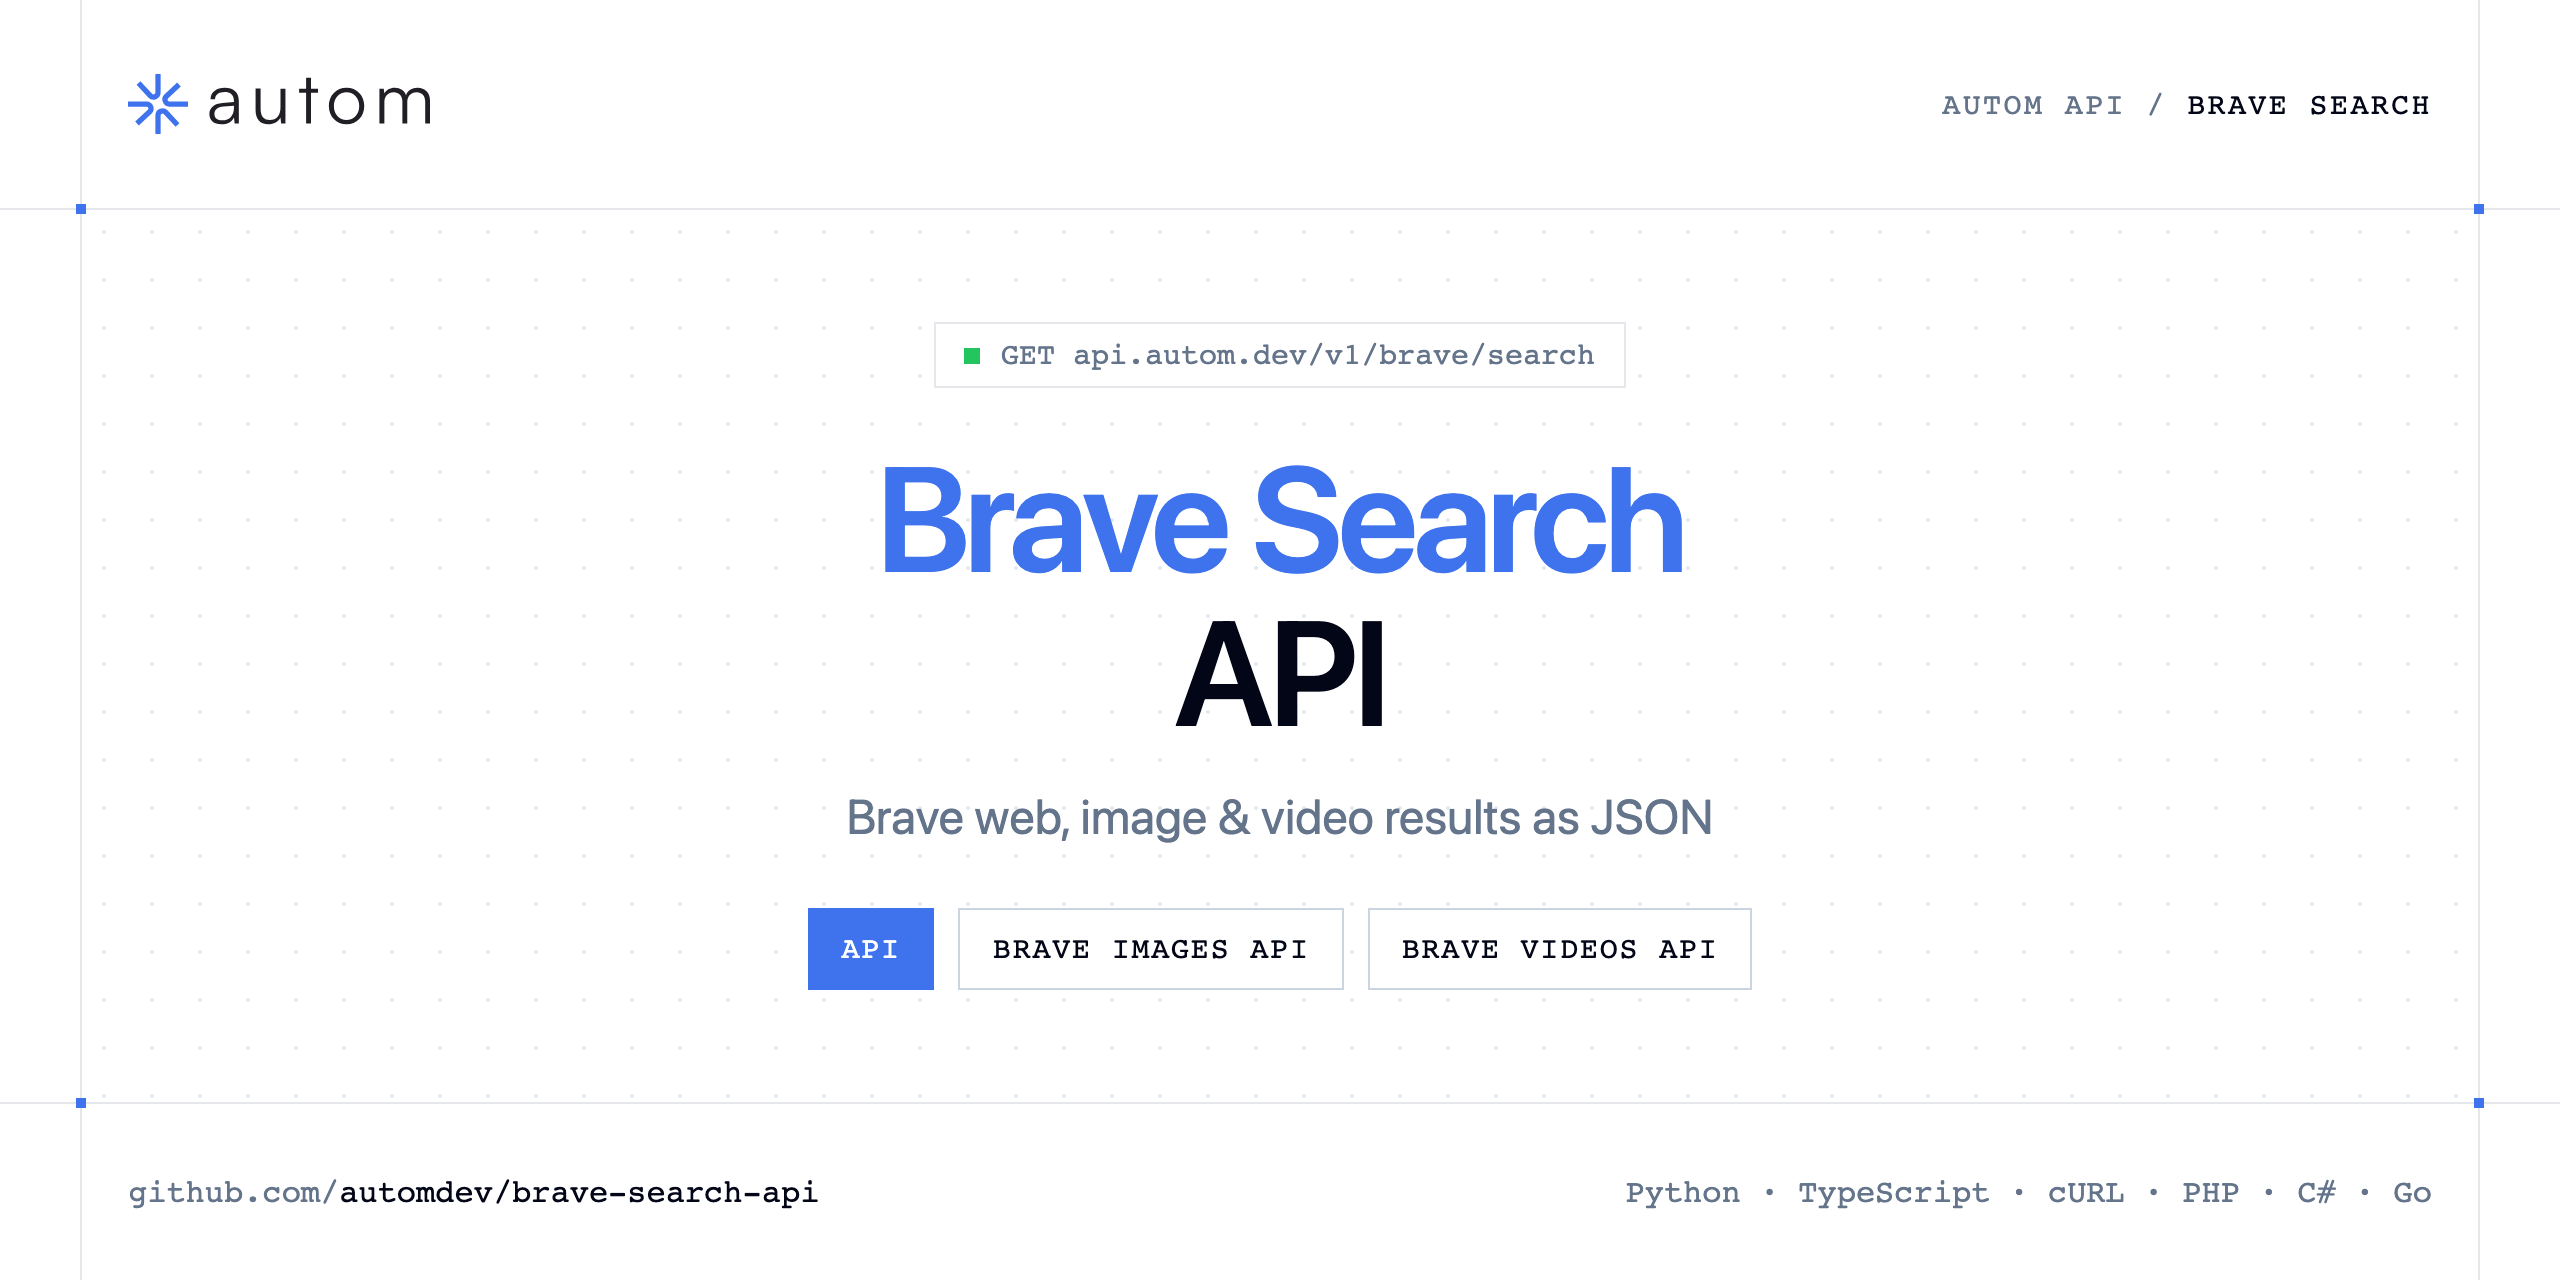
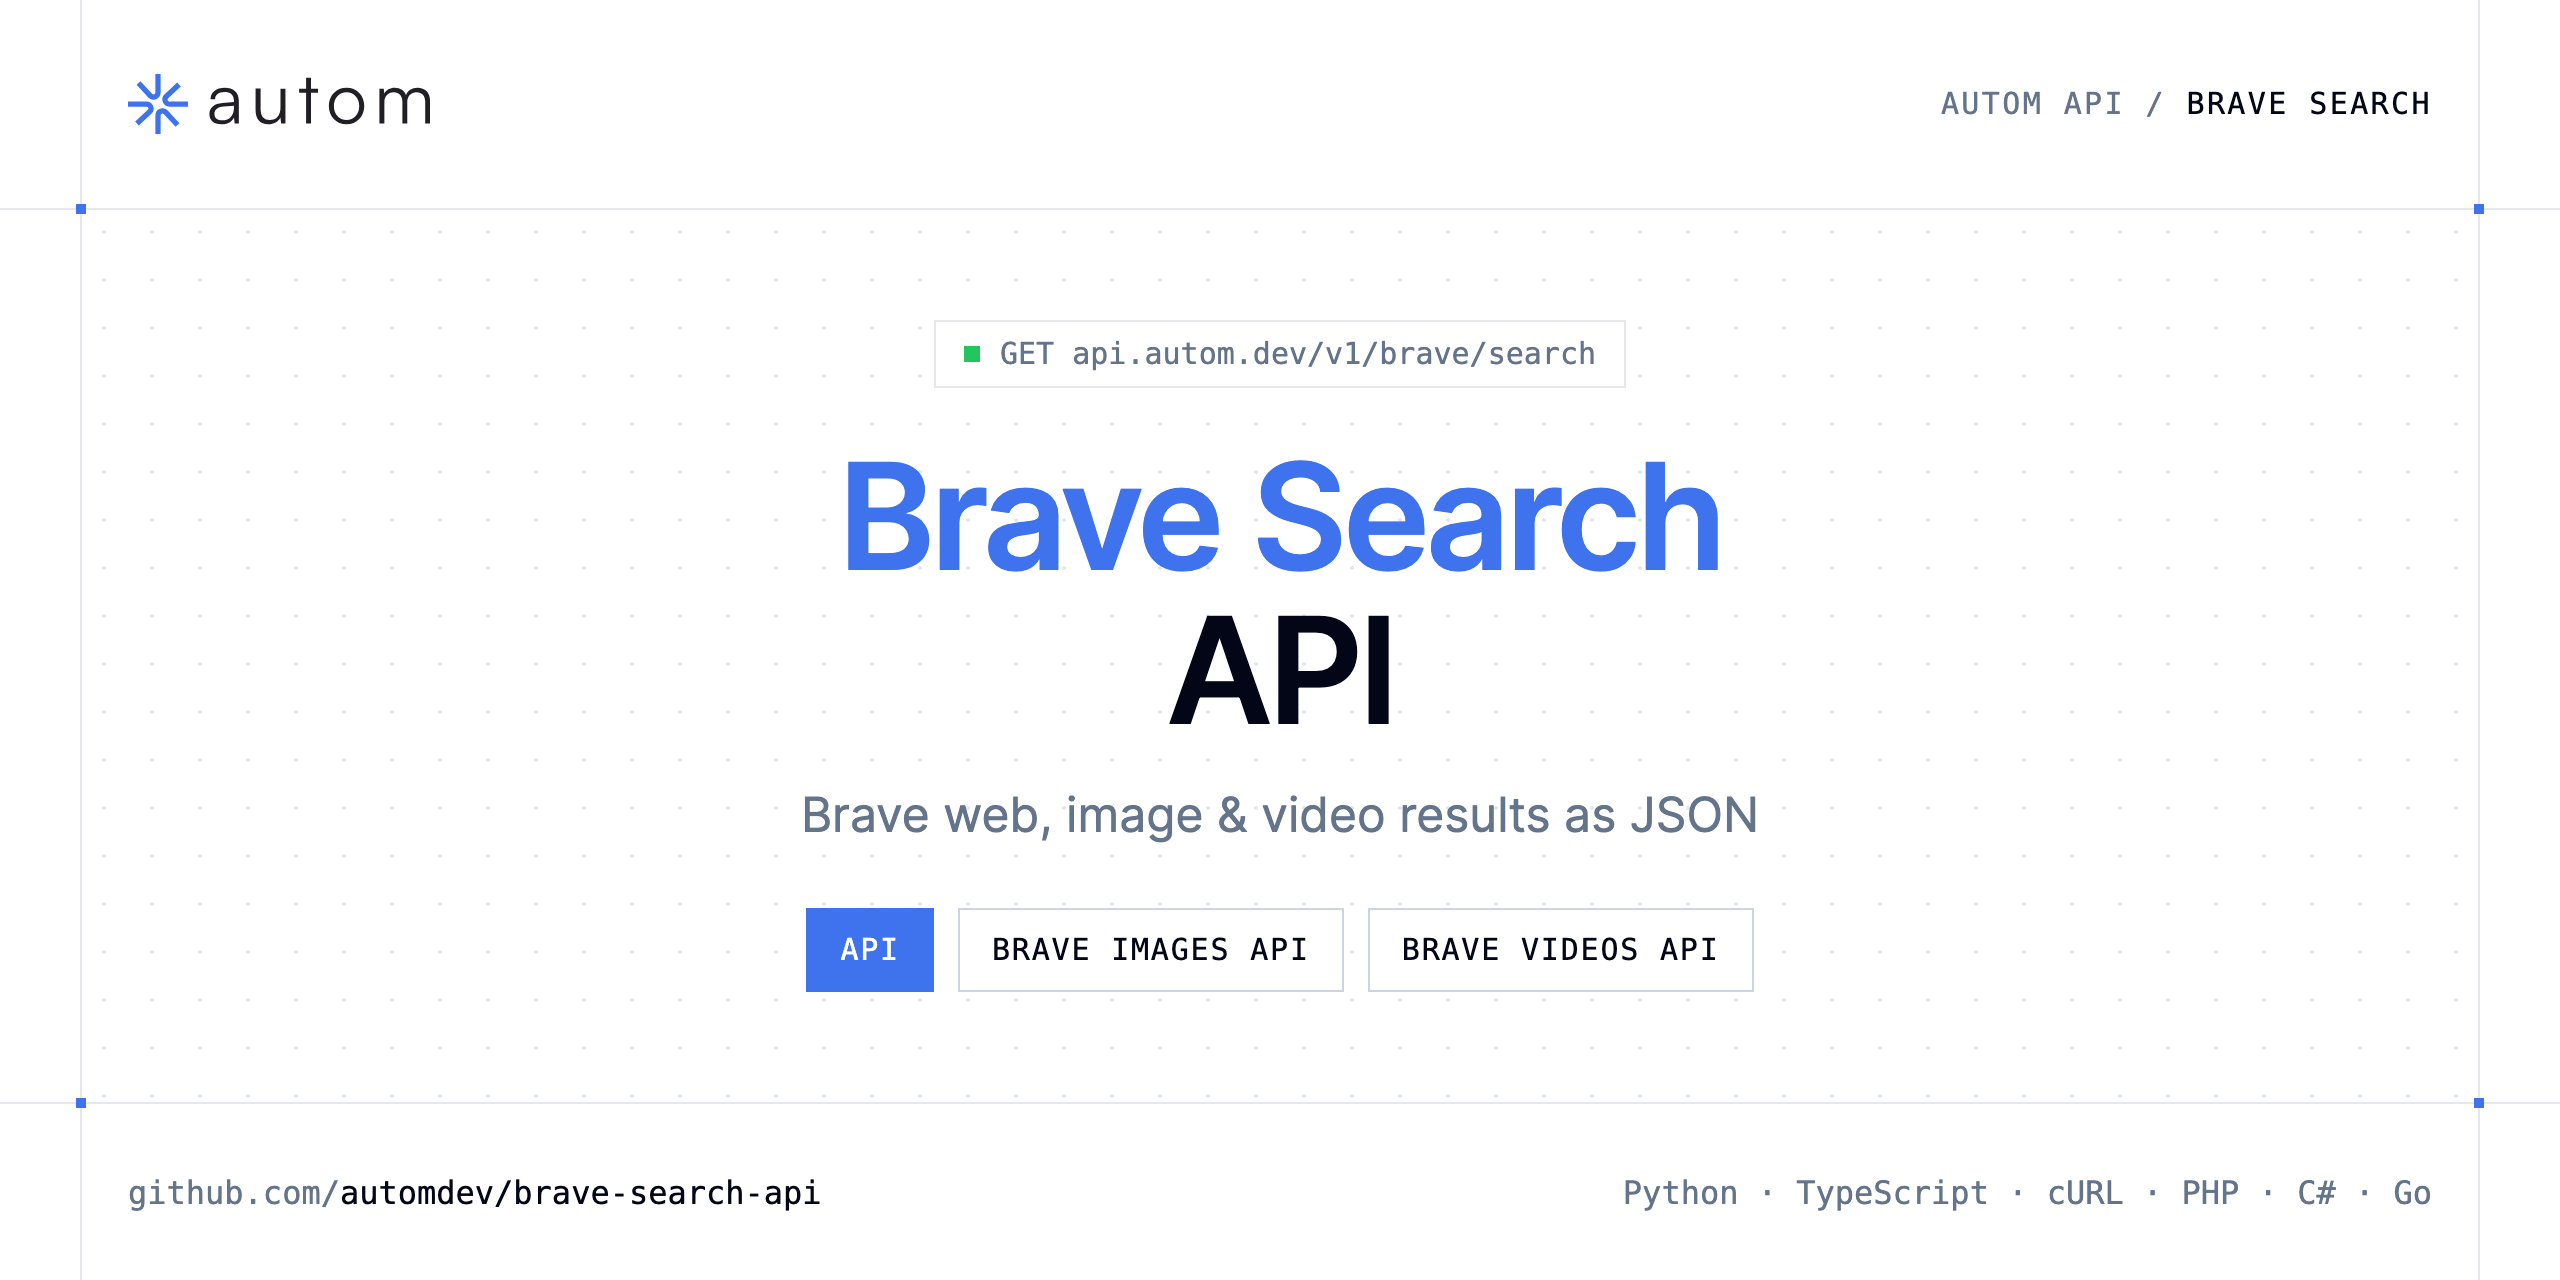
Update Brave Search API examples and docs

diff --git a/README.md b/README.md
@@ -8,7 +8,7 @@
 
 The **Autom Brave Search API** returns Brave web, image and video results as structured JSON.
 
-- **Brave Search API** — Search Brave Search via API and retrieve structured organic results with pagination, SafeSearch, and locale.
+- **Brave Search API** — Search Brave Search via API and retrieve structured organic results with pagination.
 - **Brave Images API** — Search Brave Images via API and retrieve structured image results with pagination and SafeSearch.
 - **Brave Videos API** — Search Brave Videos via API and retrieve structured video results with pagination and SafeSearch.
 
@@ -47,7 +47,7 @@ pip install requests        # Python
 
 ## Brave Search API
 
-Search Brave Search via API and retrieve structured organic results with pagination, SafeSearch, and locale.
+Search Brave Search via API and retrieve structured organic results with pagination.
 
 `GET https://api.autom.dev/v1/brave/search` · **1 credit per request** · [API reference](https://app.autom.dev/openapi)
 
@@ -57,9 +57,8 @@ Search Brave Search via API and retrieve structured organic results with paginat
 |---|---|---|---|---|
 | `query` | query | string | ✅ | The search query you want to run on Brave Search. |
 | `page` | query | number | — | Page number for pagination. |
-| `gl` | query | string | — | Country code (e.g. fr, us). Mapped to Brave country. |
-| `hl` | query | string | — | Language code (e.g. fr, en). Mapped to Brave lang. |
-| `safe` | query | string | — | SafeSearch: active \| off \| moderate \| strict. Google-style active maps to Brave strict. |
+| `gl` | query | string | — | Country code, for example us, fr, gb, de. |
+| `hl` | query | string | — | Language code, for example en, fr, de. |
 
 ### Python example
 
@@ -101,9 +100,7 @@ type BraveSearchApi = {
     gl?: string;
     hl?: string;
     page?: number;
-    safe?: string;
     engine?: string;
-    safesearch?: string;
   };
 };
 
@@ -128,21 +125,26 @@ Example response from the API reference, abridged.
 {
   "organic_results": [
     {
-      "link": "https://www.crunchbase.com/organization/growhack",
-      "title": "GrowHack - Crunchbase Company Profile & Funding",
-      "domain": "www.crunchbase.com",
-      "snippet": "GrowHack is the leading lean marketing resource for startups.",
+      "link": "https://www.anthropic.com/",
+      "title": "Anthropic",
+      "domain": "www.anthropic.com",
+      "snippet": "Anthropic is an AI safety company. Claude is its assistant.",
       "position": 1
+    },
+    {
+      "link": "https://docs.anthropic.com/",
+      "title": "Anthropic documentation",
+      "domain": "docs.anthropic.com",
+      "snippet": "Documentation for the Claude API and the Anthropic platform.",
+      "position": 2
     }
   ],
   "search_parameters": {
-    "q": "growth hacking",
+    "q": "anthropic",
     "gl": "us",
     "hl": "en",
     "page": 1,
-    "safe": "active",
-    "engine": "brave",
-    "safesearch": "strict"
+    "engine": "brave"
   }
 }
 ```
@@ -162,9 +164,7 @@ Example response from the API reference, abridged.
 | `search_parameters.gl` | string |  |
 | `search_parameters.hl` | string |  |
 | `search_parameters.page` | integer |  |
-| `search_parameters.safe` | string |  |
 | `search_parameters.engine` | string |  |
-| `search_parameters.safesearch` | string |  |
 
 ## Brave Images API
 
